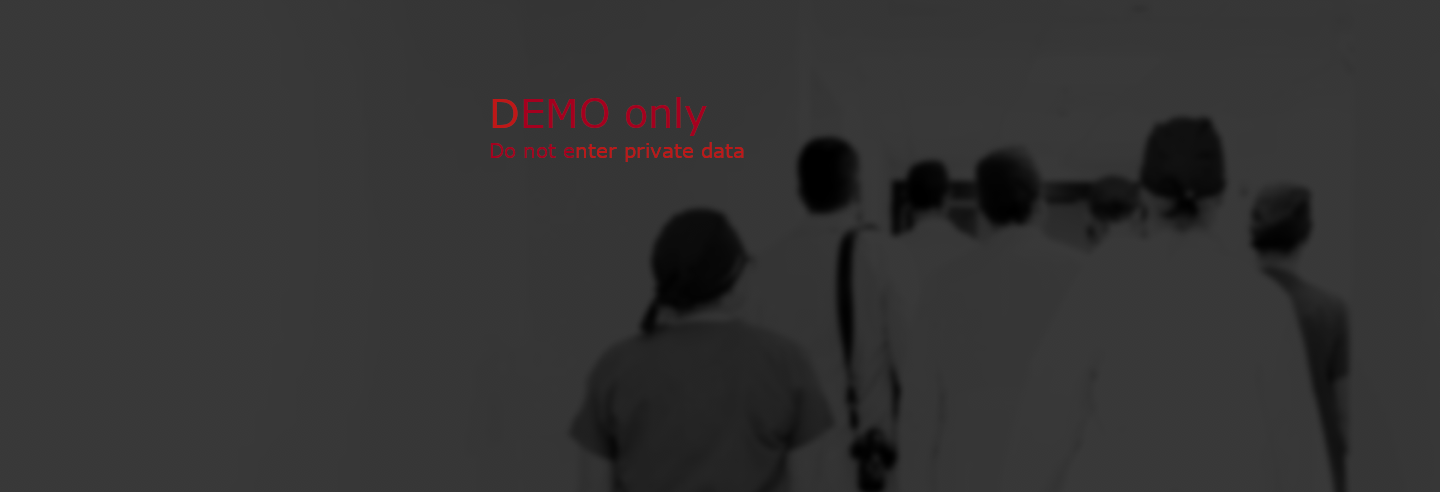
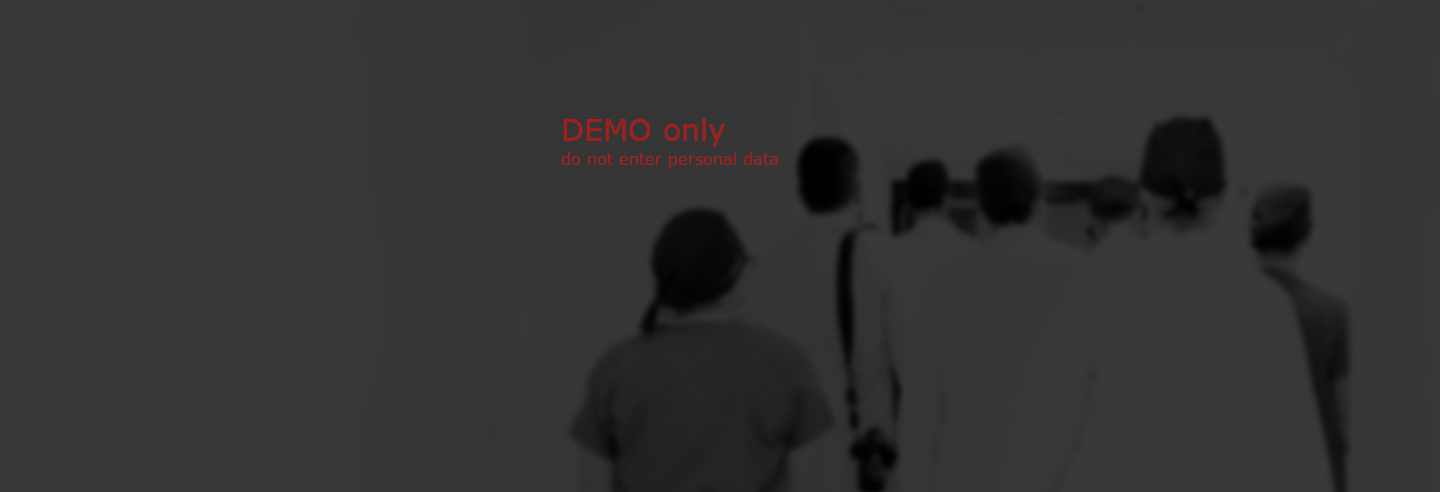
enhance header responsiveness

Changed region(s): [[0.3438, 0.1829, 0.5625, 0.3354]]

diff --git a/apps/helper-app/src/home/home.component.scss b/apps/helper-app/src/home/home.component.scss
@@ -55,8 +55,13 @@ input[type='number'] {
     margin-top: 4rem;
 
     @media (max-width: $breakpoint-md) {
-      font-size: 25px;
+      font-size: 24px;
       line-height: 34px;
+    }
+
+    @media (max-width: $breakpoint-xs) {
+      font-size: 20px;
+      line-height: 26px;
       margin-top: 2rem;
     }
   }
@@ -68,10 +73,15 @@ input[type='number'] {
     line-height: 26px;
     width: calc(100% - 10rem);
 
+    @media (max-width: $breakpoint-md) {
+      font-size: 16px;
+      line-height: 20px;
+      width: 100%;
+    }
+
     @media (max-width: $breakpoint-xs) {
       font-size: 14px;
-      line-height: 21px;
-      width: 100%;
+      line-height: 18px;
     }
   }
 
@@ -252,7 +262,7 @@ input[type='number'] {
   margin: 5 * $basic-spacer 0;
   border-radius: 250px;
 
-  @media (min-width: $breakpoint-md) {
+  @media (min-width: $breakpoint-md + 1px) {
     display: none;
   }
 
